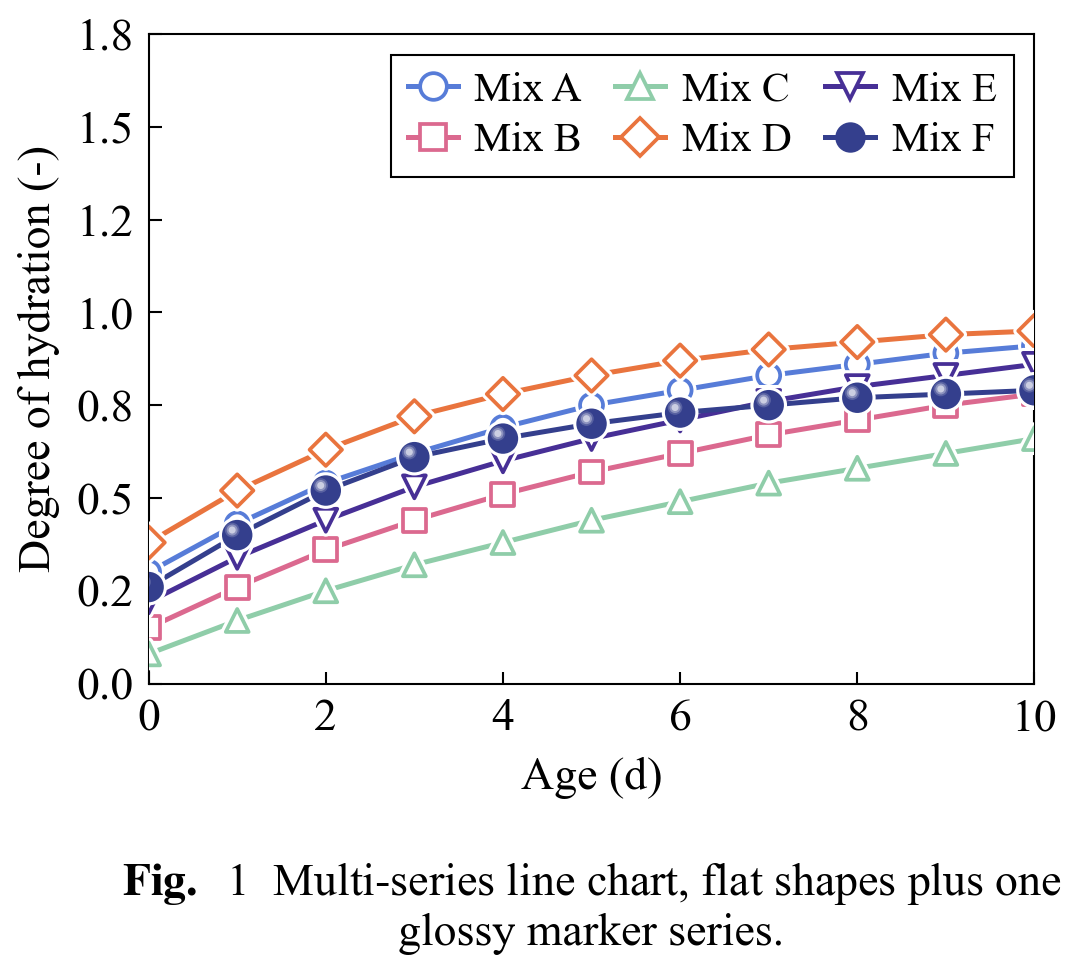
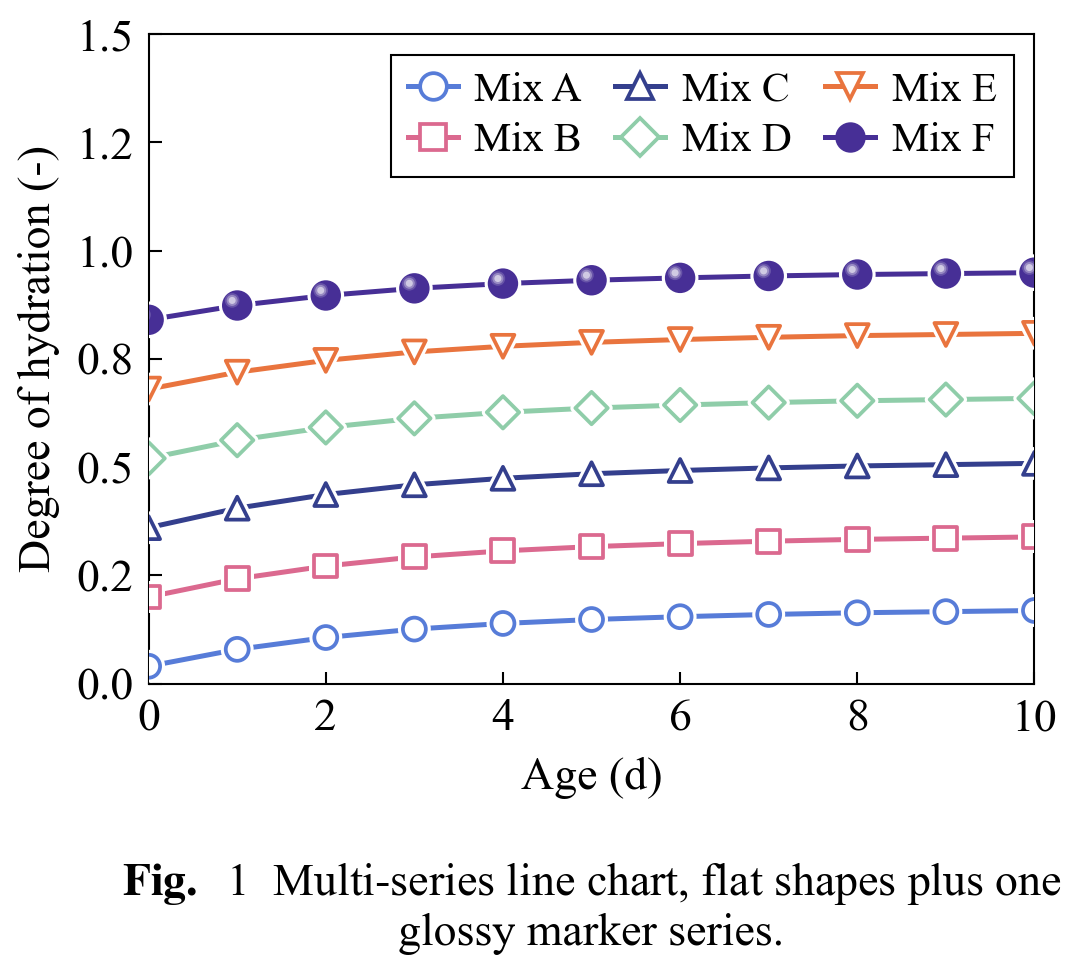
line_markers: spread the six curves evenly and keep the blue-family keys apart

diff --git a/examples/gallery.py b/examples/gallery.py
@@ -64,42 +64,44 @@ def _kde(x, grid, bw=None):
 @figure("line_markers", "多曲线点线图（点形区分 + 光泽球）", "line",
         "一张图叠放六条测量曲线：前五条用不同点形、扁平白心，靠形状区分；"
         "第六条改用光泽球（圆点），对比两种点样式的实际观感。"
-        "每个点周围留 1.2 pt 空隙，线在点前断开。",
-        'for name, key, mk in series:\n'
-        '    ball = mk == "o" and name.startswith("Mix F")\n'
-        '    handles.append(plot_series(ax, x, vals, PL[key], label=name,\n'
-        '                               marker=mk, gloss=ball or False))\n'
-        'framed_legend(ax, handles=handles, loc="upper left", ncol=2)')
+        "六条线按等间距垂直铺开，每个点周围留 1.2 pt 空隙，线在点前断开。",
+        'shape = a shared saturating curve\n'
+        'for name, key, mk, base, rise in series:     # even vertical offset\n'
+        '    handles.append(plot_series(ax, x, base + rise * shape, PL[key],\n'
+        '                               label=name, marker=mk, gloss=ball))\n'
+        'framed_legend(ax, handles=handles, loc="upper left", ncol=3)')
 def fig_line_markers():
     fig, (ax,) = create_subplots(figsize=WXL_FIGSIZE["single"])
     x = np.linspace(0, 10, 11)
-    # (label, palette key, marker, values). Mixes A-E carry the series identity
-    # through the marker shape and are therefore flat; Mix F is the glossy-ball
-    # series, shown so the two marker treatments can be compared side by side.
+    # One shared saturating shape plus an even vertical offset and a slightly
+    # different rise per series: the six curves stay parallel and evenly spaced
+    # instead of clumping into a band, which is what makes the marker styles
+    # readable. Mixes A-E carry the series identity through the marker shape and
+    # are therefore flat; Mix F is the glossy-ball series, shown alongside so the
+    # two marker treatments can be compared.
+    shape = np.array([0.00, 0.30, 0.51, 0.66, 0.76, 0.83, 0.88, 0.92, 0.95,
+                      0.97, 0.99])
+    # The three blue-family keys (primary / neutral / secondary) are kept apart in
+    # the stack, so no two neighbouring curves read as the same colour.
     series = [
-        ("Mix A", "primary", "o",
-         [0.30, 0.43, 0.54, 0.62, 0.69, 0.75, 0.79, 0.83, 0.86, 0.89, 0.91]),
-        ("Mix B", "contrast", "s",
-         [0.15, 0.26, 0.36, 0.44, 0.51, 0.57, 0.62, 0.67, 0.71, 0.75, 0.78]),
-        ("Mix C", "improve", "^",
-         [0.08, 0.17, 0.25, 0.32, 0.38, 0.44, 0.49, 0.54, 0.58, 0.62, 0.66]),
-        ("Mix D", "accent", "D",
-         [0.38, 0.52, 0.63, 0.72, 0.78, 0.83, 0.87, 0.90, 0.92, 0.94, 0.95]),
-        ("Mix E", "secondary", "v",
-         [0.22, 0.34, 0.44, 0.53, 0.60, 0.66, 0.71, 0.76, 0.80, 0.83, 0.86]),
-        ("Mix F", "neutral", "o",
-         [0.26, 0.40, 0.52, 0.61, 0.66, 0.70, 0.73, 0.75, 0.77, 0.78, 0.79]),
+        ("Mix A", "primary", "o", 0.04, 0.13),
+        ("Mix B", "contrast", "s", 0.20, 0.14),
+        ("Mix C", "neutral", "^", 0.36, 0.15),
+        ("Mix D", "improve", "D", 0.52, 0.14),
+        ("Mix E", "accent", "v", 0.68, 0.13),
+        ("Mix F", "secondary", "o", 0.84, 0.11),
     ]
     handles = []
-    for name, key, mk, vals in series:
+    for name, key, mk, base, rise in series:
+        vals = base + rise * shape
         ball = name == "Mix F"          # the one series drawn with the glossy ball
         handles.append(plot_series(ax, x, vals, PL[key], label=name, marker=mk,
                                    gloss=ball or False))
     ax.set_xlabel("Age (d)")
     ax.set_ylabel("Degree of hydration (-)")
     ax.set_xlim(0, 10)
-    # generous headroom so the six-entry legend clears the top curve
-    ax.set_ylim(0, 1.62)
+    # headroom for the six-entry legend; the curves themselves stop at 0.95
+    ax.set_ylim(0, 1.45)
     framed_legend(ax, handles=handles, loc="upper left", ncol=3,
                   columnspacing=0.8, handlelength=1.2, handletextpad=0.4,
                   labelspacing=0.3)
